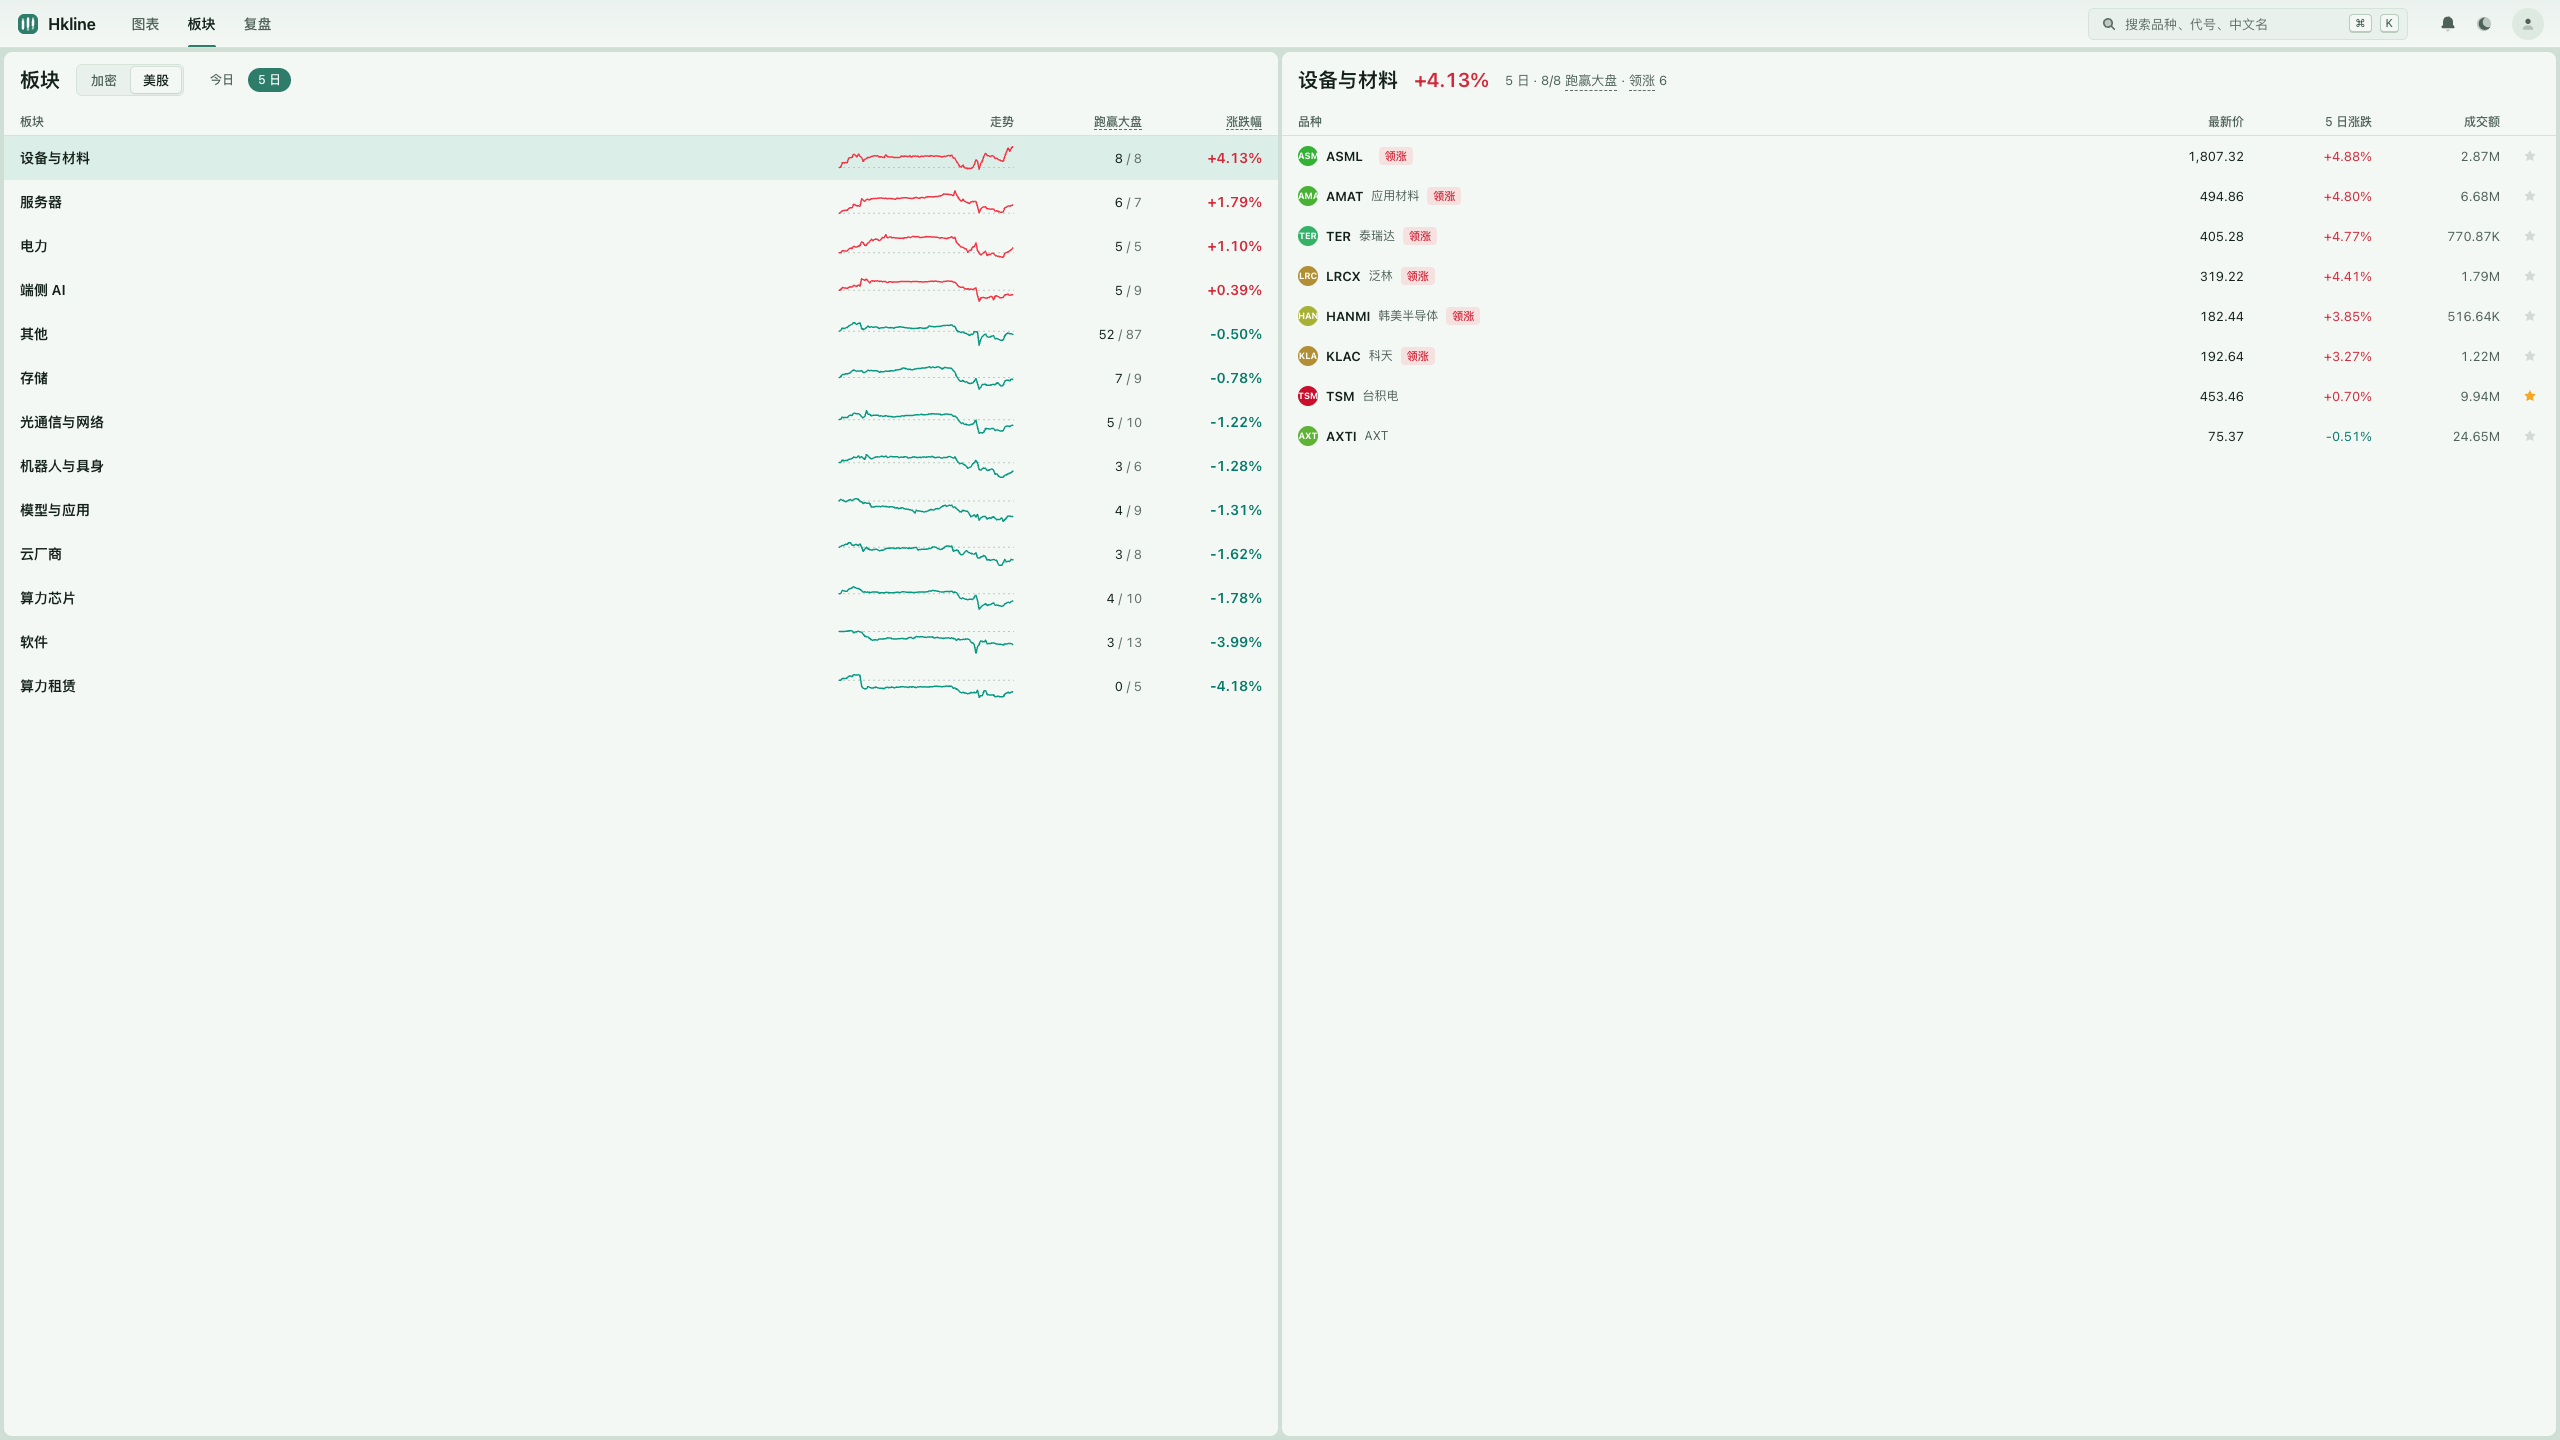
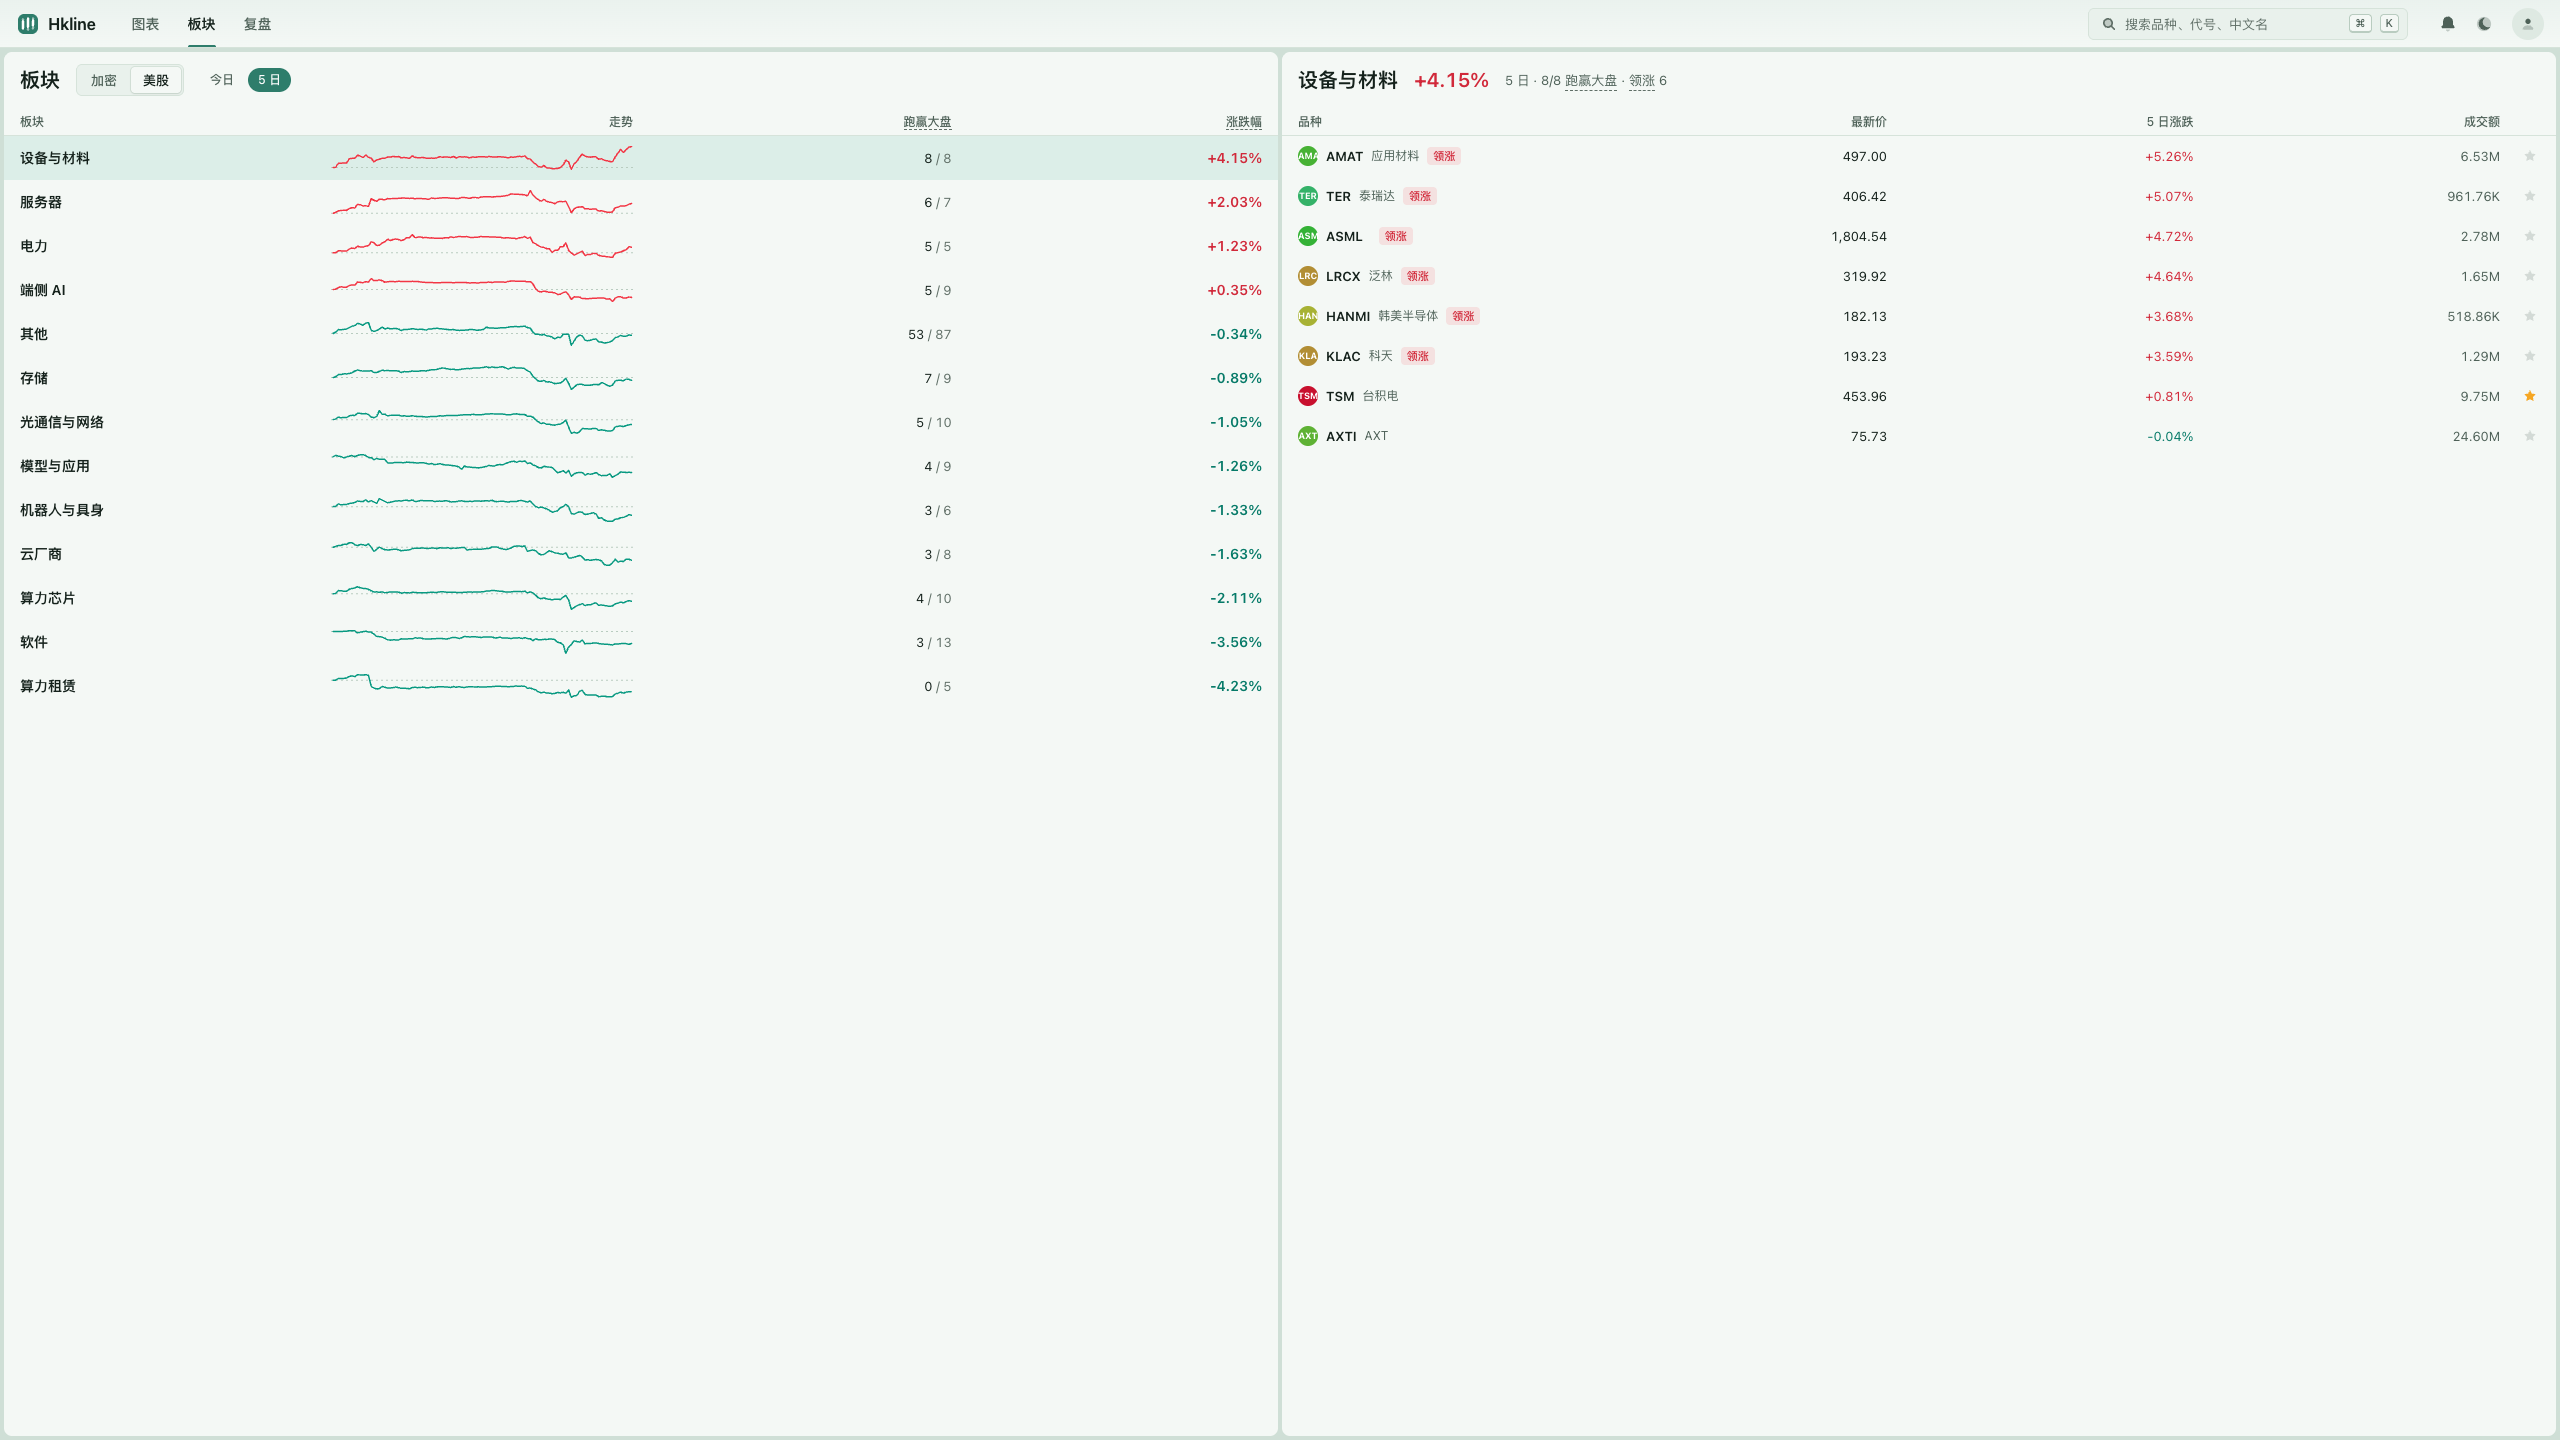
网页版 · 收尾回归：记一笔、侧栏成交、交易所账号、副图上限、千分位、板块列宽、大单存活断言与截图
- regress.mjs 新增 finish 段（副图最多三个、价格轴与侧栏千分位、大单存活列不截断、板块表列宽实测），
  review 段补记一笔（没登录存本机 → 登录后补传、截图上传）、侧栏成交有数据 / 没绑密钥、交易所账号页
- 接口请求与币安 K 线加超时，免得一次网络卡住整段挂死
- 复盘：点「找相似」发起成功就切到「相似走势」，不再等所有搜索进度问完；
  从侧栏成交跳进来先把回合画出来并选中，再慢慢补问相似搜索
- 截图 收尾-*.png（2560×1440）

diff --git a/Web/src/pages/review.ts b/Web/src/pages/review.ts
@@ -115,6 +115,8 @@ async function load(): Promise<void> {
   R.loadedAt = Date.now()
   if (R.symbol !== 'all' && !R.trades.some(x => x.round.symbol === R.symbol)) R.symbol = 'all'
   applyWanted()
+  // 回合 / 观点先画出来（从侧栏成交跳进来要马上看到选中的那一回合），本机记着的相似搜索要逐个问，问完再补画
+  if (R.shown) render()
   await refreshSearches()
   if (!R.shown) return
   render()
@@ -709,9 +711,10 @@ async function startFind(viewId: string, btn: HTMLButtonElement): Promise<void> 
     rememberSearch({ id: job.id, symbol: r.symbol, iv: r.interval, bars: r.bars, label: `${codeOf(r.symbol)} ${ivText(r.interval)} · ${r.bars} 根`, created: Date.now() })
     R.searches.set(job.id, { meta: storedSearches()[0], status: { id: job.id, status: job.status as SearchStatus['status'], checked: 0, processed: 0, total: 0, error: null }, results: null, error: null })
     toast('开始找相似', '在全市场历史里找和这段走势像的片段，找完会列在「相似走势」', 'search')
-    R.tab = 'similar'; savePref()
+    // 先切过去（「排队中」这一条立刻就在），进度再慢慢补
+    R.tab = 'similar'; savePref(); player?.stop(); render()
     await refreshSearches()
-    render()
+    if (R.shown) render()
   } catch (err) {
     toast('找相似没发起', errorText(err), 'info')
     btn.disabled = false
